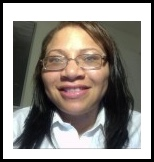
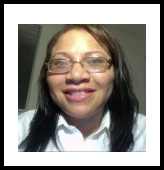
Stop cropping the profile photo so the full face stays visible.

diff --git a/src/app/page.tsx b/src/app/page.tsx
@@ -40,14 +40,14 @@ export default function HomePage() {
     <main className="mx-auto max-w-3xl px-6 py-14">
       {/* ── Hero ─────────────────────────────────────────────────────── */}
       <div className="flex flex-col gap-10 py-24 sm:flex-row sm:items-start sm:py-36">
-        <div className="w-fit shrink-0 rounded-3xl border-2 border-black bg-white p-2 shadow-md">
+        <div className="w-fit shrink-0 shadow-md">
           {/* eslint-disable-next-line @next/next/no-img-element */}
           <img
             src={profile.photoPath}
             alt={profile.displayName}
-            width={192}
-            height={192}
-            className="block h-48 w-48 rounded-xl object-cover object-center"
+            width={208}
+            height={208}
+            className="block h-52 w-52 object-contain"
           />
         </div>
         <div style={{ fontFamily: '"Times New Roman", Times, serif', color: "var(--ink)" }}>

diff --git a/src/app/about/page.tsx b/src/app/about/page.tsx
@@ -17,14 +17,14 @@ export default function AboutPage() {
             "linear-gradient(160deg, color-mix(in srgb, var(--accent) 38%, white), color-mix(in srgb, var(--accent) 14%, transparent) 62%, transparent)",
         }}
       >
-        <div className="w-fit shrink-0 rounded-3xl border-2 border-black bg-white p-2 shadow-md">
+        <div className="w-fit shrink-0 shadow-md">
           {/* eslint-disable-next-line @next/next/no-img-element */}
           <img
             src={profile.photoPath}
             alt={profile.displayName}
-            width={192}
-            height={192}
-            className="block h-48 w-48 rounded-xl object-cover object-center"
+            width={208}
+            height={208}
+            className="block h-52 w-52 object-contain"
           />
         </div>
         <div style={{ fontFamily: '"Times New Roman", Times, serif', color: "var(--ink)" }}>
